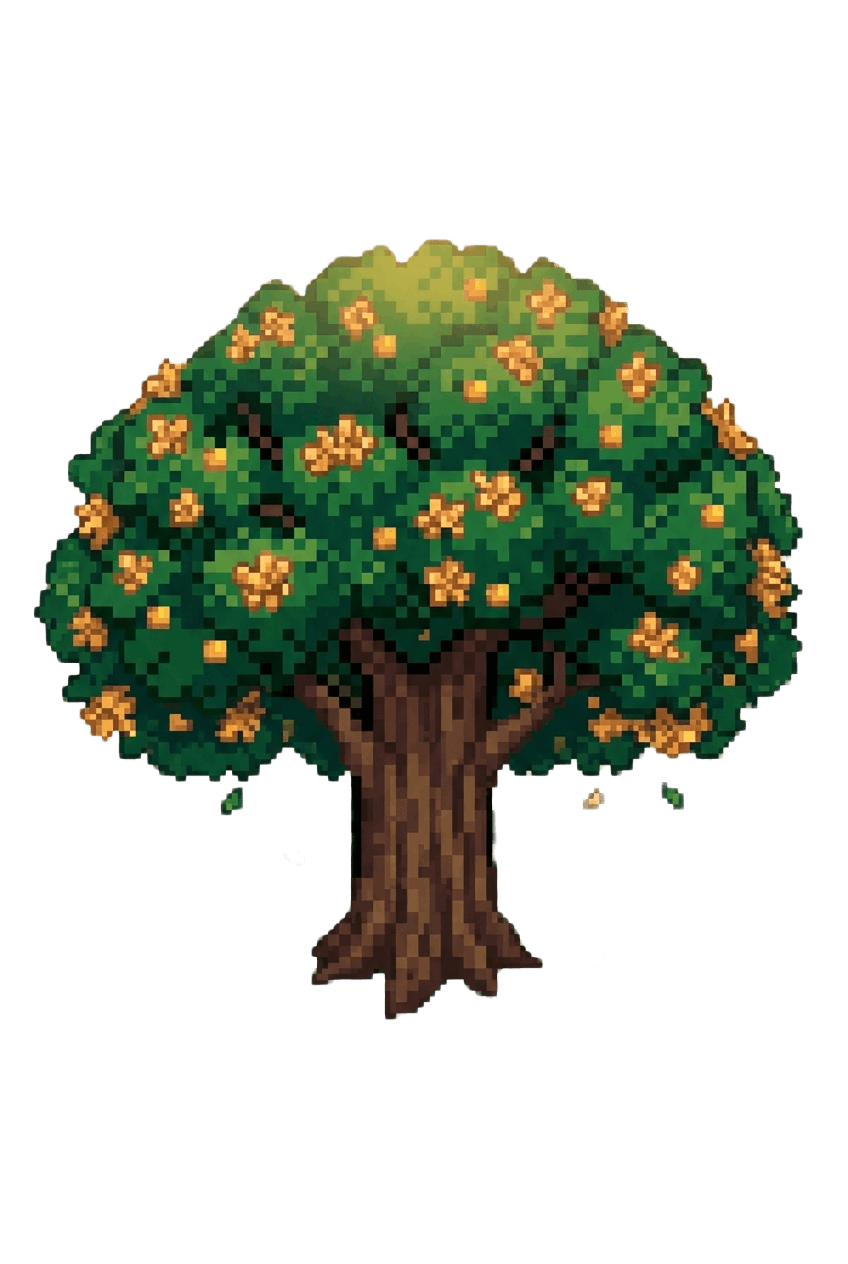
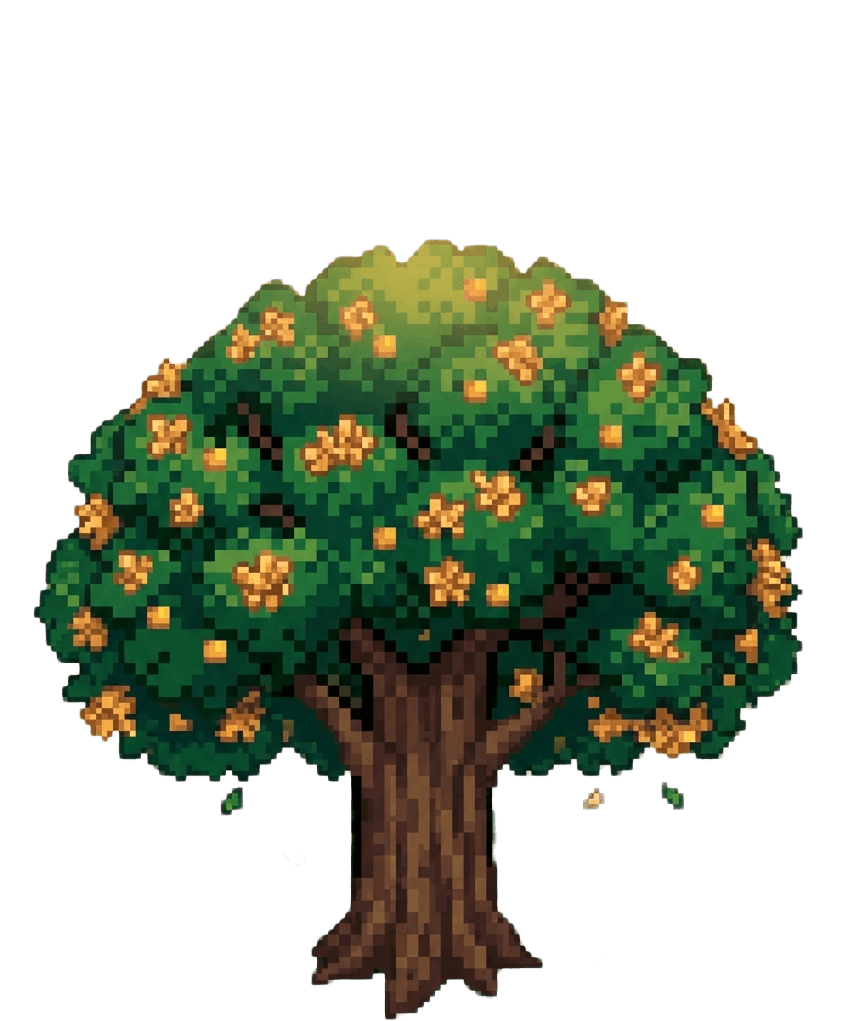
Refine landing page: seamless night hero + alignment fixes
- Hero now blends sky-night into the shared starfield (no disconnected top box)
- Removed the grass/green strip at the bottom of the hero (clashed with seamless night)
- Removed the two flanking trees around the "core idea" growth section
- Trimmed bottom transparent padding on stage PNGs so the trees sit level
- Removed the grass strip inside the "Stay motivated" HUD panel
- Nudged the palm tree to center over its label in the collection shelf

diff --git a/index.html b/index.html
@@ -71,8 +71,10 @@ body>*:not(.starfield){position:relative;z-index:1}
 
 /* ---------- HERO ---------- */
 .hero{position:relative;min-height:100vh;display:flex;align-items:center;padding:120px 0 0;overflow:hidden}
-.hero-sky{position:absolute;inset:0;background-image:url("web-assets/sky-night.png");background-size:cover;background-position:center top;opacity:.6}
-.hero-sky::after{content:"";position:absolute;inset:0;background:linear-gradient(180deg,transparent 40%,#060d1b 99%)}
+/* hero sky shares the same starfield canvas below it — the moon/nebula image is
+   blended in (screen) and faded top+bottom so there's no seam against the page. */
+.hero-sky{position:absolute;inset:0;background-image:url("web-assets/sky-night.png");background-size:cover;background-position:center top;opacity:.5;mix-blend-mode:screen}
+.hero-sky::after{content:"";position:absolute;inset:0;background:linear-gradient(180deg,#0a1530 0%,transparent 30%,transparent 70%,#060d1b 100%)}
 .hero-glow{position:absolute;top:-6%;right:14%;width:520px;height:420px;background:radial-gradient(circle,rgba(255,212,121,.22),transparent 62%);filter:blur(26px)}
 .hero-inner{position:relative;z-index:5;display:grid;grid-template-columns:1.05fr .95fr;gap:40px;align-items:center;width:100%}
 .hero-copy .pill{display:inline-flex;align-items:center;gap:8px;background:rgba(255,255,255,.08);border:1px solid rgba(255,255,255,.18);color:#dfe9ef;font-weight:700;font-size:14px;padding:7px 16px;border-radius:999px;margin-bottom:22px;backdrop-filter:blur(6px)}
@@ -91,8 +93,6 @@ body>*:not(.starfield){position:relative;z-index:1}
 .float-tree.t1{left:-46px;width:122px;animation:sway 6s ease-in-out infinite}
 .float-tree.t2{right:-34px;width:92px;bottom:34px;animation:sway 7s ease-in-out infinite reverse}
 .mascot{position:absolute;left:-66px;top:24px;width:116px;z-index:6;filter:drop-shadow(0 12px 18px rgba(0,0,0,.5));animation:bob 4s ease-in-out infinite}
-.hero-ground{position:absolute;left:0;right:0;bottom:0;height:120px;z-index:3;background:linear-gradient(180deg,transparent,#123426 42%,#0c2419 100%)}
-.hero-ground .tile-row{position:absolute;bottom:0;left:0;right:0;height:100%;background-repeat:repeat-x;background-size:auto 100%;opacity:.5}
 
 /* particles */
 .particles,.amb{position:absolute;inset:0;z-index:2;pointer-events:none;overflow:hidden}
@@ -115,12 +115,11 @@ section{position:relative;padding:100px 0;background:transparent;overflow:hidden
 .guide{display:flex;justify-content:center;margin-bottom:6px}
 .guide img{width:58px;height:58px;filter:drop-shadow(0 8px 12px rgba(0,0,0,.5));animation:bob 4s ease-in-out infinite}
 
-/* faint ground silhouette anchoring scene trees between sections */
-.scene-tree{position:absolute;bottom:14px;z-index:3;filter:drop-shadow(0 14px 16px rgba(0,0,0,.55));opacity:.9}
-
 /* ---------- GROWTH STRIP ---------- */
+/* Stage PNGs are trimmed flush at the base (see web-assets), so bottom-aligning
+   the boxes makes every trunk sit on the same level line. */
 .growth-stages{position:relative;z-index:5;display:flex;align-items:flex-end;justify-content:center;gap:8px;flex-wrap:wrap}
-.stage{text-align:center;flex:1;min-width:130px;max-width:200px}
+.stage{position:relative;z-index:2;text-align:center;flex:1;min-width:130px;max-width:200px}
 .stage .pot{height:200px;display:flex;align-items:flex-end;justify-content:center}
 .stage img{filter:drop-shadow(0 12px 18px rgba(0,0,0,.5))}
 .stage .lbl{margin-top:14px;font-weight:800;color:#fff;font-size:16px}
@@ -165,7 +164,6 @@ section{position:relative;padding:100px 0;background:transparent;overflow:hidden
 .hud-cell img{width:42px;height:42px}
 .hud-cell b{display:block;color:#fff;font-size:15px}
 .hud-cell small{color:var(--muted);font-weight:700;font-size:12px}
-.hud .grass-base{position:absolute;left:0;right:0;bottom:0;height:34px;background-image:url('web-assets/grass.png');background-repeat:repeat-x;background-size:auto 100%;opacity:.4}
 
 /* tools list shown as real pixel-icon rows on a glass panel (no generic boxes) */
 .tool-card{width:100%;max-width:420px;border-radius:24px;padding:14px;background:#0b1a2c;border:1px solid var(--card-bd);box-shadow:0 26px 56px rgba(0,0,0,.45)}
@@ -217,7 +215,6 @@ footer{background:#050a16;padding:56px 0 40px;border-top:1px solid rgba(255,255,
   .frow.flip .fr-text{order:0}
   .fr-visual .hud,.fr-visual .tool-card{margin:0 auto}
   .arrow{display:none}
-  .scene-tree{width:70px!important}
   section{padding:76px 0}
 }
 @media(max-width:480px){
@@ -266,7 +263,6 @@ footer{background:#050a16;padding:56px 0 40px;border-top:1px solid rgba(255,255,
       <div class="phone"><img src="web-assets/screenshot.png" alt="Grow Pray app garden screen"></div>
     </div>
   </div>
-  <div class="hero-ground"><div class="tile-row" style="background-image:url('web-assets/grass.png')"></div></div>
 </header>
 
 <!-- ===== PRAYER RAIL — the five real prayer-icon scenes ===== -->
@@ -290,8 +286,6 @@ footer{background:#050a16;padding:56px 0 40px;border-top:1px solid rgba(255,255,
 
 <!-- ===== GROWTH PROGRESSION ===== -->
 <section class="growth">
-  <img class="scene-tree" src="web-assets/tree-willow.png" style="left:-10px;width:120px" alt="">
-  <img class="scene-tree" src="web-assets/tree-palm.png" style="right:-6px;width:110px" alt="">
   <div class="container sec-inner">
     <div class="sec-head reveal">
       <div class="guide"><img src="web-assets/seedling.png" alt=""></div>
@@ -357,7 +351,6 @@ footer{background:#050a16;padding:56px 0 40px;border-top:1px solid rgba(255,255,
             <div class="hud-cell"><img src="web-assets/icon-xp.png" alt=""><div><b>XP</b><small>Level up</small></div></div>
             <div class="hud-cell"><img src="web-assets/icon-trophy.png" alt=""><div><b>Challenges</b><small>Weekly bonuses</small></div></div>
           </div>
-          <div class="grass-base"></div>
         </div>
       </div>
     </div>
@@ -403,7 +396,7 @@ footer{background:#050a16;padding:56px 0 40px;border-top:1px solid rgba(255,255,
       <div class="shelf-tree"><img src="web-assets/tree-maple.png" style="max-height:122px" alt=""><b>Maple</b></div>
       <div class="shelf-tree"><img src="web-assets/tree-cherry.png" style="max-height:158px" alt=""><b>Cherry Blossom</b></div>
       <div class="shelf-tree"><img src="web-assets/tree-willow.png" style="max-height:138px" alt=""><b>Willow</b></div>
-      <div class="shelf-tree"><img src="web-assets/tree-palm.png" style="max-height:150px" alt=""><b>Palm</b></div>
+      <div class="shelf-tree"><img src="web-assets/tree-palm.png" style="max-height:150px;transform:translateX(18px)" alt=""><b>Palm</b></div>
       <div class="shelf-tree"><img src="web-assets/tree-cedar.png" style="max-height:128px" alt=""><b>Cedar</b></div>
       <div class="shelf-tree"><img src="web-assets/tree-classic.png" style="max-height:144px" alt=""><b>Classic</b></div>
       <div class="shelf-tree rare"><img src="web-assets/tree-golden.png" style="max-height:150px" alt=""><b>✦ Golden · Premium</b></div>
